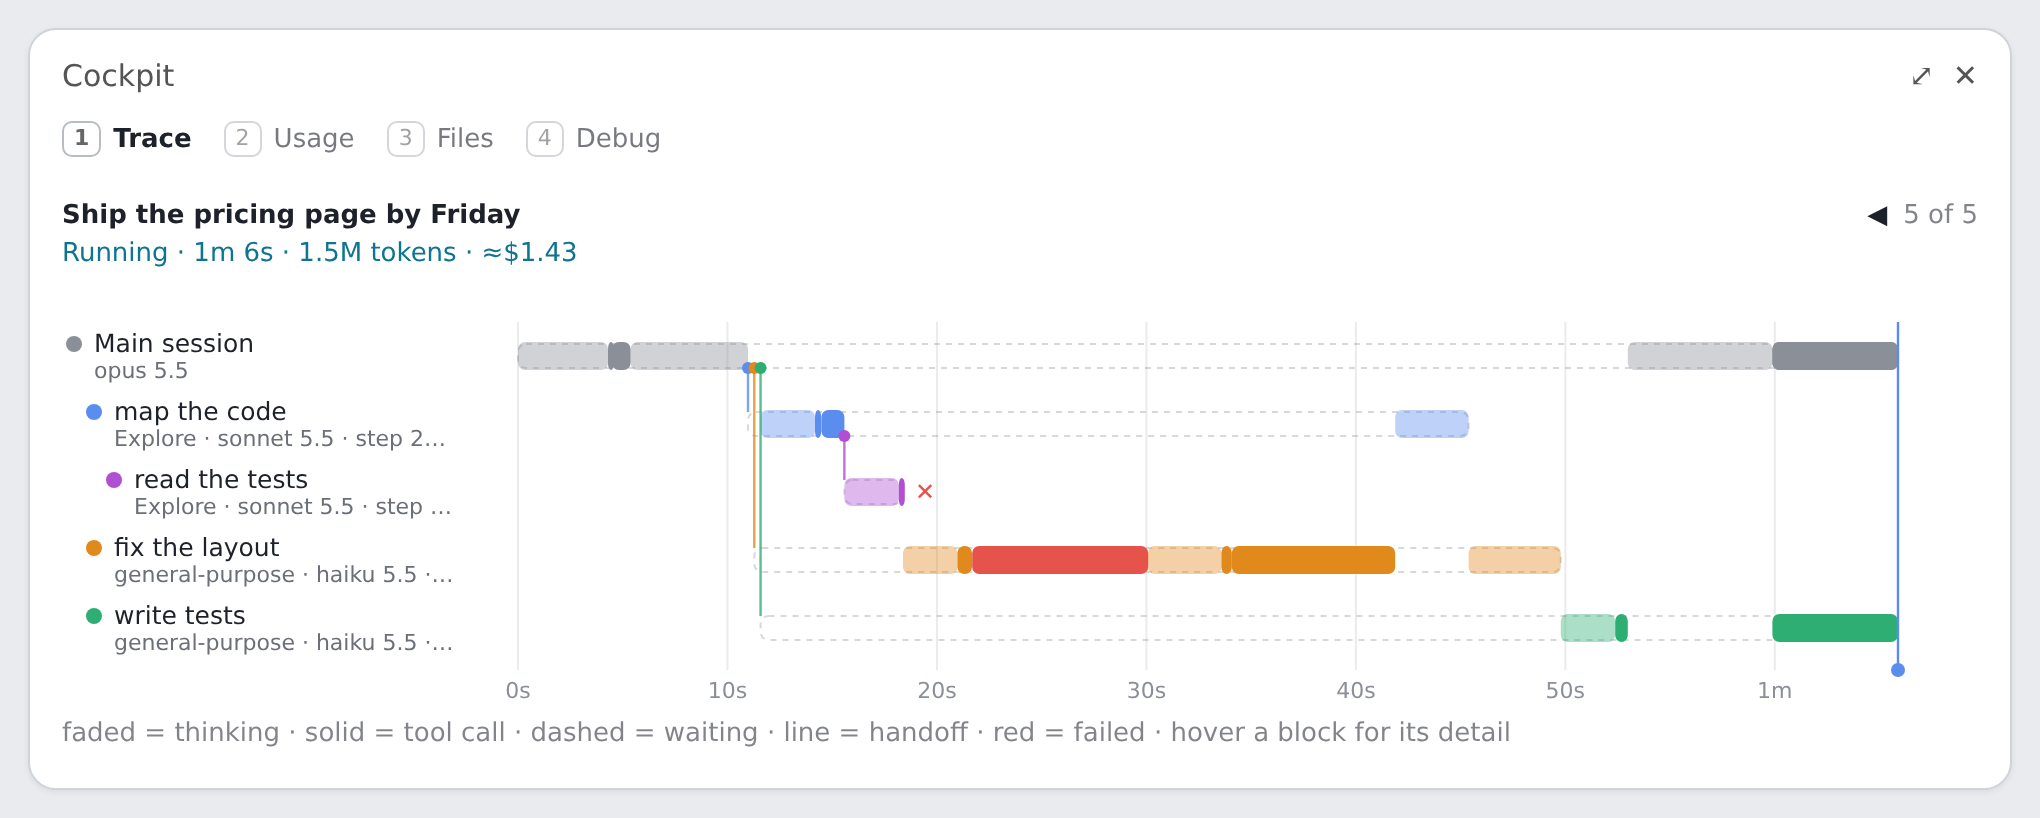
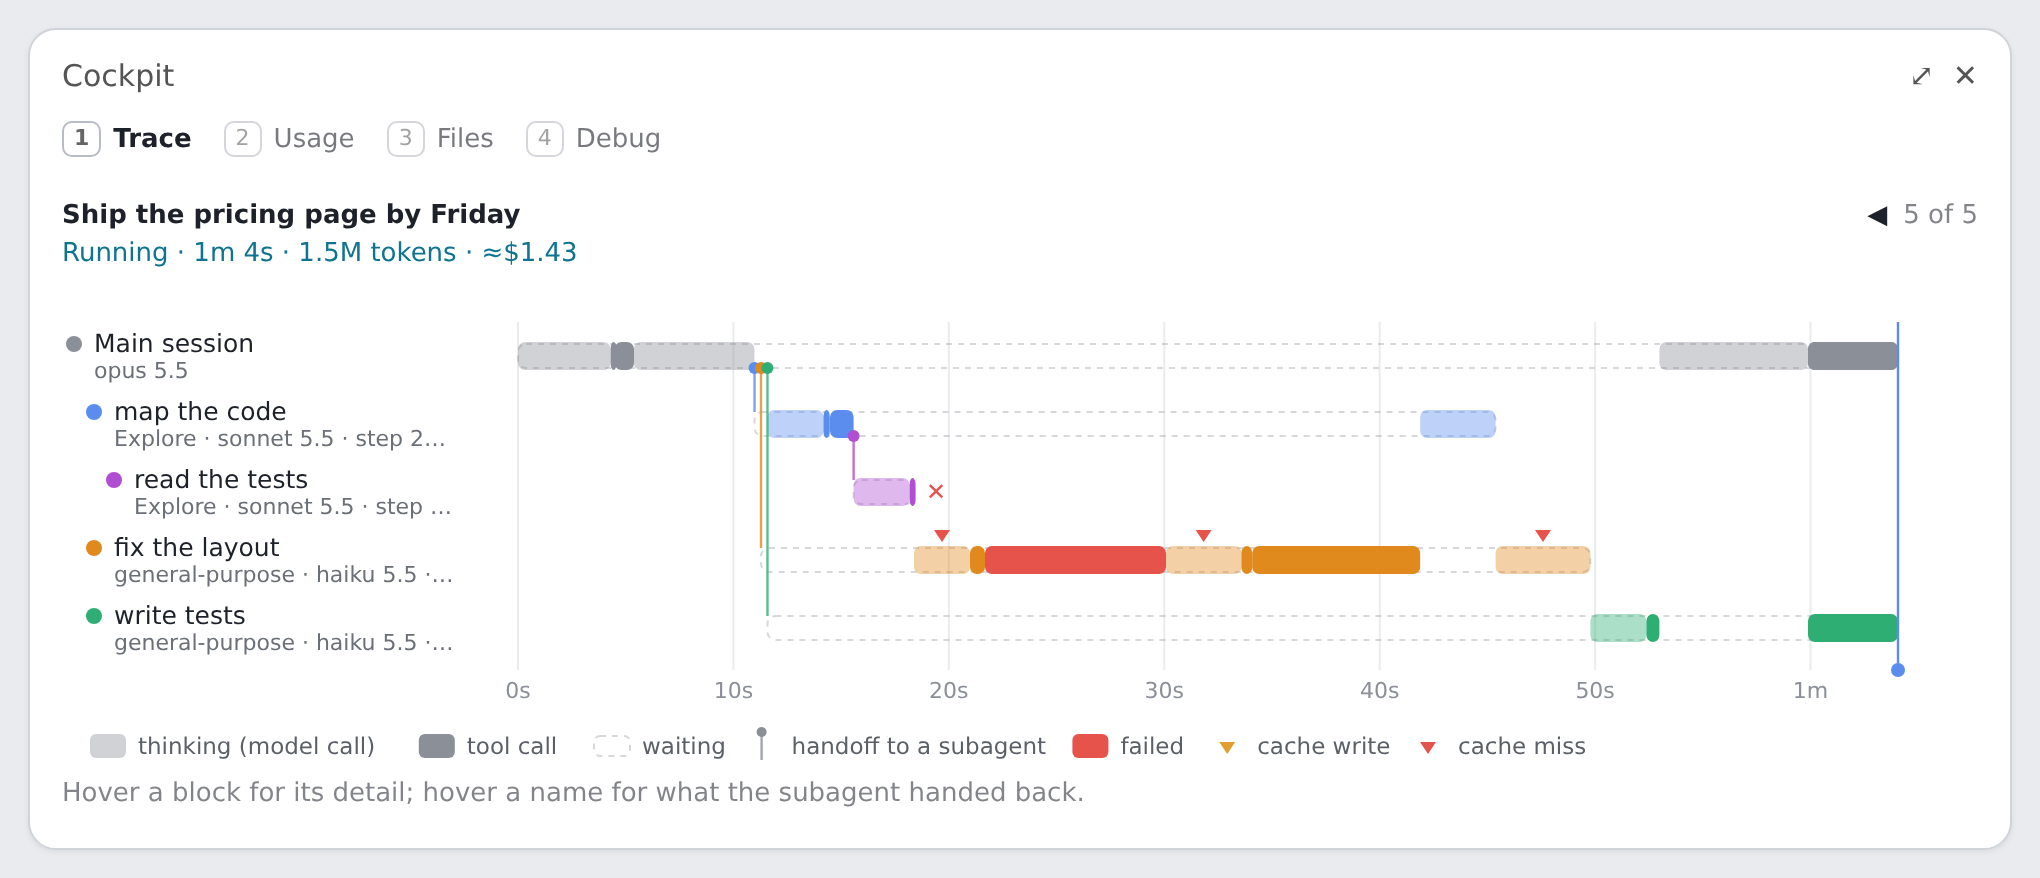
cockpit 0.17.1: drawn legend for the lanes, cache write and miss marks on model calls, redraws every 5 s while running so desktop stops blinking

diff --git a/lib/lanes.js b/lib/lanes.js
@@ -26,12 +26,18 @@ export function titleOf(t) {
 }
 
 // One tool call or model call as a block of its lane, with the words its tooltip shows.
-function block(S, sp, now, money) {
+function block(S, sp, now, money, idle, ttl) {
   const t1 = sp.t1 ?? now
   const dur = fmtDur(t1 - sp.t0) + (sp.st === 'run' ? ' so far' : '')
   if (sp.k === 'llm') {
-    const tip = ['Thinking', [shortModel(sp.m), sp.ef].filter(Boolean).join(' '), dur, sp.tok ? tok(sp.tok) + ' tokens' : '', money(sp.cost)].filter(Boolean).join(' · ')
-    return { t0: sp.t0, t1, kind: sp.st === 'err' ? 'err' : 'think', tip }
+    // The cache: a miss rewrote the whole prompt (nothing read), a write added a lot to it; idle past the lifetime means it had expired.
+    const read = sp.cr || 0
+    const wrote = sp.cw || 0
+    const cache = sp.tok === undefined ? null : read === 0 && wrote > 0 ? 'miss' : wrote > read * 0.25 && wrote > 2000 ? 'write' : 'hit'
+    const expired = idle !== null && idle > ttl
+    const words = cache === null ? '' : cache === 'miss' ? 'cache miss: wrote ' + tok(wrote) + (expired ? ' (expired after ' + fmtDur(idle) + ' idle)' : '') : cache === 'write' ? 'cache write: ' + tok(wrote) + ', read ' + tok(read) : 'cache hit: read ' + tok(read)
+    const tip = ['Thinking', [shortModel(sp.m), sp.ef].filter(Boolean).join(' '), dur, sp.tok ? tok(sp.tok) + ' tokens' : '', money(sp.cost), words].filter(Boolean).join(' · ')
+    return { t0: sp.t0, t1, kind: sp.st === 'err' ? 'err' : 'think', tip, cache }
   }
   const d = sp.d && sp.d.startsWith('/') ? showPath(S.cwd, sp.d).t : String(sp.d || '').replace(/\s+/g, ' ')
   const name = String(sp.n).replace(/^mcp__[^_]+(?:_[^_]+)*?__/, '')
@@ -64,7 +70,16 @@ export function lanesOf(S, rootId, now) {
   const add = (sp, depth, from) => {
     const c = PALETTE[lanes.length % PALETTE.length]
     const isMain = sp.id === rootId
-    const blocks = own(sp.id).map((x) => block(S, x, now, money))
+    // Time since the lane's previous model call, against its cache lifetime (main and subagents have their own).
+    const ttl = (isMain ? S.ttlMin : S.ttlSubMin) * 60000
+    let lastEnd = null
+    const blocks = own(sp.id)
+      .sort((x, y) => x.t0 - y.t0)
+      .map((x) => {
+        const idle = x.k === 'llm' && lastEnd !== null ? x.t0 - lastEnd : null
+        if (x.k === 'llm') lastEnd = x.t1 ?? now
+        return block(S, x, now, money, idle, ttl)
+      })
     const a = sp.k === 'agent' ? S.agents[sp.a] : null
     const step = a && a.stepTotal ? 'step ' + a.stepDone + '/' + a.stepTotal : ''
     lanes.push({
@@ -104,13 +119,13 @@ export function lanesSvg(m, W, now) {
   const x1 = W - 10
   const span = m.T1 - m.T0
   const X = (t) => x0 + ((Math.min(Math.max(t, m.T0), m.T1) - m.T0) / span) * (x1 - x0)
-  const H = TOP + m.lanes.length * LANE + 26
+  const H = TOP + m.lanes.length * LANE + 26 + 30 // lanes, axis, legend
   let s = ''
   // grid and ticks
   const step = tickStep(span, Math.floor((x1 - x0) / 70))
   for (let at = 0; at <= span; at += step) {
     const x = X(m.T0 + at)
-    s += `<line x1="${x}" y1="${TOP}" x2="${x}" y2="${H - 22}" class="grid"/><text x="${x}" y="${H - 8}" class="tick" text-anchor="middle">${tickLabel(at)}</text>`
+    s += `<line x1="${x}" y1="${TOP}" x2="${x}" y2="${H - 52}" class="grid"/><text x="${x}" y="${H - 38}" class="tick" text-anchor="middle">${tickLabel(at)}</text>`
   }
   m.lanes.forEach((l, i) => {
     const y = TOP + i * LANE + LANE / 2
@@ -133,15 +148,42 @@ export function lanesSvg(m, W, now) {
       const fill = bk.kind === 'err' ? '#e5534b' : l.color
       const op = bk.kind === 'think' ? 0.4 : 1
       s += `<rect x="${bx.toFixed(1)}" y="${y - 7}" width="${bw.toFixed(1)}" height="14" rx="3.5" fill="${fill}" fill-opacity="${op}" class="blk"><title>${esc(bk.tip)}</title></rect>`
+      if (bk.cache === 'miss' || bk.cache === 'write') s += tri(bx + bw / 2, y - 9, CACHE[bk.cache], bk.tip)
     }
     if (l.failed) s += `<text x="${b + 6}" y="${y + 4}" class="fail">✕</text>`
   })
   if (m.live) {
     const nx = X(now)
-    s += `<line x1="${nx}" y1="${TOP}" x2="${nx}" y2="${H - 22}" class="now"/><circle cx="${nx}" cy="${H - 22}" r="3.5" class="nowdot"/>`
+    s += `<line x1="${nx}" y1="${TOP}" x2="${nx}" y2="${H - 52}" class="now"/><circle cx="${nx}" cy="${H - 52}" r="3.5" class="nowdot"/>`
   }
-  const css = `text{font-family:ui-sans-serif,system-ui,-apple-system,"Segoe UI",sans-serif}.name{font-size:12.5px;fill:#1d2129;font-weight:500}.sub{font-size:11px;fill:#6b7078}.tick{font-size:11px;fill:#8b8f98}.grid{stroke:#8b8f98;stroke-opacity:.18}.wait{fill:none;stroke:#8b8f98;stroke-opacity:.35;stroke-dasharray:3 3}.hand{fill:none;stroke-width:1.2;stroke-opacity:.8}.blk:hover{stroke:#1d2129;stroke-width:1.2}.fail{font-size:12px;fill:#e5534b}.now{stroke:#5b8def;stroke-width:1.2}.nowdot{fill:#5b8def}@media (prefers-color-scheme:dark){.name{fill:#e8e9ec}.sub{fill:#a2a6ad}.blk:hover{stroke:#fff}}`
+  s += legendSvg(14, H - 14)
+  const css = `.lg{font-size:11.5px;fill:#5b6068}@media (prefers-color-scheme:dark){.lg{fill:#b4b8bf}}text{font-family:ui-sans-serif,system-ui,-apple-system,"Segoe UI",sans-serif}.name{font-size:12.5px;fill:#1d2129;font-weight:500}.sub{font-size:11px;fill:#6b7078}.tick{font-size:11px;fill:#8b8f98}.grid{stroke:#8b8f98;stroke-opacity:.18}.wait{fill:none;stroke:#8b8f98;stroke-opacity:.35;stroke-dasharray:3 3}.hand{fill:none;stroke-width:1.2;stroke-opacity:.8}.blk:hover{stroke:#1d2129;stroke-width:1.2}.fail{font-size:12px;fill:#e5534b}.now{stroke:#5b8def;stroke-width:1.2}.nowdot{fill:#5b8def}@media (prefers-color-scheme:dark){.name{fill:#e8e9ec}.sub{fill:#a2a6ad}.blk:hover{stroke:#fff}}`
   return { svg: `<svg xmlns="http://www.w3.org/2000/svg" width="${W}" height="${H}" viewBox="0 0 ${W} ${H}"><style>${css}</style>${s}</svg>`, h: H }
+}
+
+const CACHE = { miss: '#e5534b', write: '#e0a030' }
+// A small triangle over a model call that missed or wrote the cache.
+const tri = (x, y, c, tip) => `<path d="M${(x - 4).toFixed(1)} ${y - 6} h8 l-4 6 z" fill="${c}"><title>${esc(tip)}</title></path>`
+
+// The legend, drawn with the same marks the lanes use.
+function legendSvg(x, y) {
+  const c = '#8a8f98'
+  const items = [
+    [`<rect x="0" y="-6" width="18" height="12" rx="3" fill="${c}" fill-opacity=".4"/>`, 'thinking (model call)'],
+    [`<rect x="0" y="-6" width="18" height="12" rx="3" fill="${c}"/>`, 'tool call'],
+    [`<rect x="0" y="-5" width="18" height="10" rx="3" class="wait"/>`, 'waiting'],
+    [`<path d="M9 -7 V7" stroke="${c}" class="hand"/><circle cx="9" cy="-7" r="2.5" fill="${c}"/>`, 'handoff to a subagent'],
+    [`<rect x="0" y="-6" width="18" height="12" rx="3" fill="#e5534b"/>`, 'failed'],
+    [tri(9, 4, CACHE.write, 'cache write'), 'cache write'],
+    [tri(9, 4, CACHE.miss, 'cache miss'), 'cache miss'],
+  ]
+  let s = ''
+  let cx = x
+  for (const [mark, label] of items) {
+    s += `<g transform="translate(${cx},${y})">${mark}<text x="24" y="4" class="lg">${label}</text></g>`
+    cx += 30 + label.length * 6.4
+  }
+  return s
 }
 
 // Cut a label to the room it has, by an estimated character width (the SVG has no layout engine).
@@ -155,7 +197,10 @@ export function laneCells(l, m, cells) {
   const out = new Array(cells).fill(' ')
   const at = (t) => Math.min(cells - 1, Math.max(0, Math.floor(((t - m.T0) / (m.T1 - m.T0)) * cells)))
   for (let c = at(l.t0); c <= at(l.t1); c++) out[c] = 'wait'
-  const rank = { wait: 0, think: 1, tool: 2, err: 3 }
-  for (const b of l.blocks) for (let c = at(b.t0); c <= at(b.t1); c++) if ((rank[b.kind] ?? 0) > (rank[out[c]] ?? -1)) out[c] = b.kind
+  const rank = { wait: 0, think: 1, write: 2, miss: 3, tool: 4, err: 5 }
+  for (const b of l.blocks) {
+    const k = b.kind === 'think' && (b.cache === 'miss' || b.cache === 'write') ? b.cache : b.kind
+    for (let c = at(b.t0); c <= at(b.t1); c++) if ((rank[k] ?? 0) > (rank[out[c]] ?? -1)) out[c] = k
+  }
   return out
 }

diff --git a/lib/views.js b/lib/views.js
@@ -267,6 +267,7 @@ function traceTab(Box, Text, S, now, cols, ui = {}) {
   if (!roots.length) return [note(Text, 'No trace yet. Each prompt you send starts one: the main session and every subagent as a lane, their thinking and tool calls on one time axis.')]
   const root = (ctl.root && S.spans[ctl.root]) || roots[roots.length - 1]
   const idx = roots.indexOf(root)
+  now = Math.floor(now / 5000) * 5000 // the lanes move in 5 s steps, so redraws in between draw the same markup
   const m = lanesOf(S, root.id, now)
   const { all } = traceTree(S, root.id, now)
   const llm = all.filter((s) => s.k === 'llm')
@@ -286,8 +287,19 @@ function traceTab(Box, Text, S, now, cols, ui = {}) {
     out.push(Svg({ source: g.svg, alt: m.lanes.map((l) => l.name + ' (' + l.sub + ')').join(', '), width: W, height: g.h, isInteractive: true }))
   } else out.push(...termLanes(Box, Text, m, cols))
   if (m.hidden) out.push(note(Text, '+ ' + m.hidden + ' more subagents not drawn'))
-  out.push(note(Text, (surface === 'desktop' ? 'faded = thinking · solid = tool call · dashed = waiting · line = handoff · red = failed · hover a block for its detail' : 'grey = thinking · colour = tool call · ─ = waiting · red = failed')))
+  if (surface === 'desktop' && Svg) out.push(note(Text, 'Hover a block for its detail; hover a name for what the subagent handed back.'))
+  else out.push(termLegend(Box, Text))
   return out
+}
+
+// Terminal colours for what a cell shows; a tool call takes its lane's own colour.
+const TERM_KIND = { think: 'gray', write: 'yellow', miss: 'red', err: 'red' }
+
+// The terminal legend: each swatch drawn as the lanes draw it.
+function termLegend(Box, Text) {
+  const sw = (bg, label) => Box({ flexDirection: 'row', columnGap: 1, children: [Box({ width: 2, height: 1, backgroundColor: bg }), T(Text, label, { dim: true })] })
+  const items = [sw('gray', 'thinking'), sw('blue', 'tool call (lane colour)'), Box({ flexDirection: 'row', columnGap: 1, children: [T(Text, '──', { dim: true }), T(Text, 'waiting', { dim: true })] }), sw('yellow', 'cache write'), sw('red', 'cache miss or failed')]
+  return Box({ flexDirection: 'row', flexWrap: 'wrap', columnGap: 2, children: items })
 }
 
 // Terminal lanes: a name column (dot in the lane's colour, the name, the model) and one cell per slice of time.
@@ -305,7 +317,7 @@ function termLanes(Box, Text, m, cols) {
       const k = st[i]
       if (k === 'wait') runs.push(T(Text, '─'.repeat(n), { dim: true }))
       else if (k === ' ') runs.push(T(Text, ' '.repeat(n)))
-      else runs.push(Box({ width: n, flexShrink: 0, height: 1, backgroundColor: k === 'err' ? 'red' : k === 'think' ? 'gray' : l.term }))
+      else runs.push(Box({ width: n, flexShrink: 0, height: 1, backgroundColor: TERM_KIND[k] || l.term }))
       i = j
     }
     const name = '  '.repeat(l.depth) + l.name

diff --git a/lib/pills.js b/lib/pills.js
@@ -96,7 +96,8 @@ export function pillSpecs(S, now) {
   // What is happening now: the newest tool in flight (and whose it is), else the turn thinking, else the last turn.
   const live = Object.values(S.running).filter((r) => r.tool !== 'Agent').sort((a, b) => a.t - b.t)
   const f = agentFleet(S)
-  const secs = (ms) => (ms < 60000 ? Math.round(ms / 1000) + 's' : mmss(ms))
+  // Past 10 s the clock counts in 5 s steps, so the band redraws (and on Desktop swaps its SVG) at most every 5 s.
+  const secs = (ms) => (ms < 10000 ? Math.round(ms / 1000) + 's' : ms < 60000 ? Math.floor(ms / 5000) * 5 + 's' : mmss(Math.floor(ms / 5000) * 5000))
   if (live.length || S.curTurn || f.running) {
     const r = live[live.length - 1]
     const who = r && r.agentId && S.agents[r.agentId] ? fitLabel(S.agents[r.agentId].desc, 18) + ' · ' : ''

diff --git a/hooks/register.js b/hooks/register.js
@@ -127,10 +127,11 @@ async function tick($) {
   trackPeak(S)
   closeStale(S, now)
   for (const text of alerts(S, now)) $.ui.toast('cockpit: ' + text, { timeoutMs: 6000 })
-  // Redraw when the band would read differently, or while something runs (the Trace tab's bars grow).
+  // Redraw when the band would read differently, or every 5 s while something runs (the Trace tab's lanes grow).
+  // Not every second: on Desktop each redraw swaps the whole SVG, and a swap every second reads as blinking.
   const sig = JSON.stringify(pillSpecs(S, now))
   const busy = Object.keys(S.running).length || S.curTurn || Object.values(S.agents).some((a) => a.status === 'running')
-  if (sig !== shown || busy) {
+  if (sig !== shown || (busy && tickN % 5 === 0)) {
     shown = sig
     $.ui.invalidate('ui.render')
   }

diff --git a/lib/model.js b/lib/model.js
@@ -164,6 +164,9 @@ export function onStepEnd(S, e, result, t) {
   if (u) {
     sp.tok = (u.input_tokens || 0) + (u.output_tokens || 0) + (u.cache_read_input_tokens || 0) + (u.cache_creation_input_tokens || 0)
     sp.cost = costOf(model, u)
+    sp.cr = u.cache_read_input_tokens || 0 // cache read, written and sent fresh: the Trace tab marks misses and writes
+    sp.cw = u.cache_creation_input_tokens || 0
+    sp.cf = u.input_tokens || 0
   }
   const effort = e.effort === undefined ? null : e.effort
   let sw = null // a model or effort change seen on THIS request: its cache write is the price of switching

diff --git a/README.md b/README.md
@@ -18,7 +18,7 @@ A Claude Code mod: one recorder, many views. Built against Claude Code 2.1.289. 
 - **crew pill** (only while subagents are running): done / total, one square per subagent in spawn order (blue running, grey done, red failed, amber stopped, hollow = planned and not started; brighter as its context fills), and failed / running counts. Crews over forty are grouped, each square showing the busiest state in its group.
 
 **`/cockpit` pane** (keys 1-4 switch tabs):
-1. **Trace** (opens first): where the time went in one prompt, as swimlanes. The main session and each subagent (under the one that spawned it) get a lane with their model; their thinking (faded) and tool calls (solid) sit on one time axis, a dashed track while they wait, a line where work was handed off, failed calls in red. On Desktop, hover a block for its detail (the command or file, how long, tokens, the error); hover a name for the subagent's answer. ◀ ▶ page through earlier prompts; a turn its subagents wake stays in the same trace.
+1. **Trace** (opens first): where the time went in one prompt, as swimlanes. The main session and each subagent (under the one that spawned it) get a lane with their model; their thinking (faded) and tool calls (solid) sit on one time axis, a dashed track while they wait, a line where work was handed off, failed calls in red; a triangle over a model call marks a cache write (amber) or a cache miss (red), and its tooltip says how much was read and written and whether the cache had expired. A drawn legend explains every mark. On Desktop, hover a block for its detail (the command or file, how long, tokens, the error); hover a name for the subagent's answer. ◀ ▶ page through earlier prompts; a turn its subagents wake stays in the same trace.
 2. **Usage**: context, the 5-hour and weekly windows with reset times, task, plan and agent progress, money (API accounts) or worth (subscriptions), session counters and turn-time stats; then the prompt cache: main-window countdown, the subagent caches, read / wrote / new totals, every model or effort switch with the tokens it re-cached, and a stacked bar per request; at the bottom, calls, failures and p50 / p95 per tool for the whole session
 3. **Files**: reads, edits and repeated reads per file. Paths are relative to the workspace folder; a file outside it is shown in full with ↗
 4. **Debug**: which events the recorder has actually seen, and when. Start here if a panel is empty.
